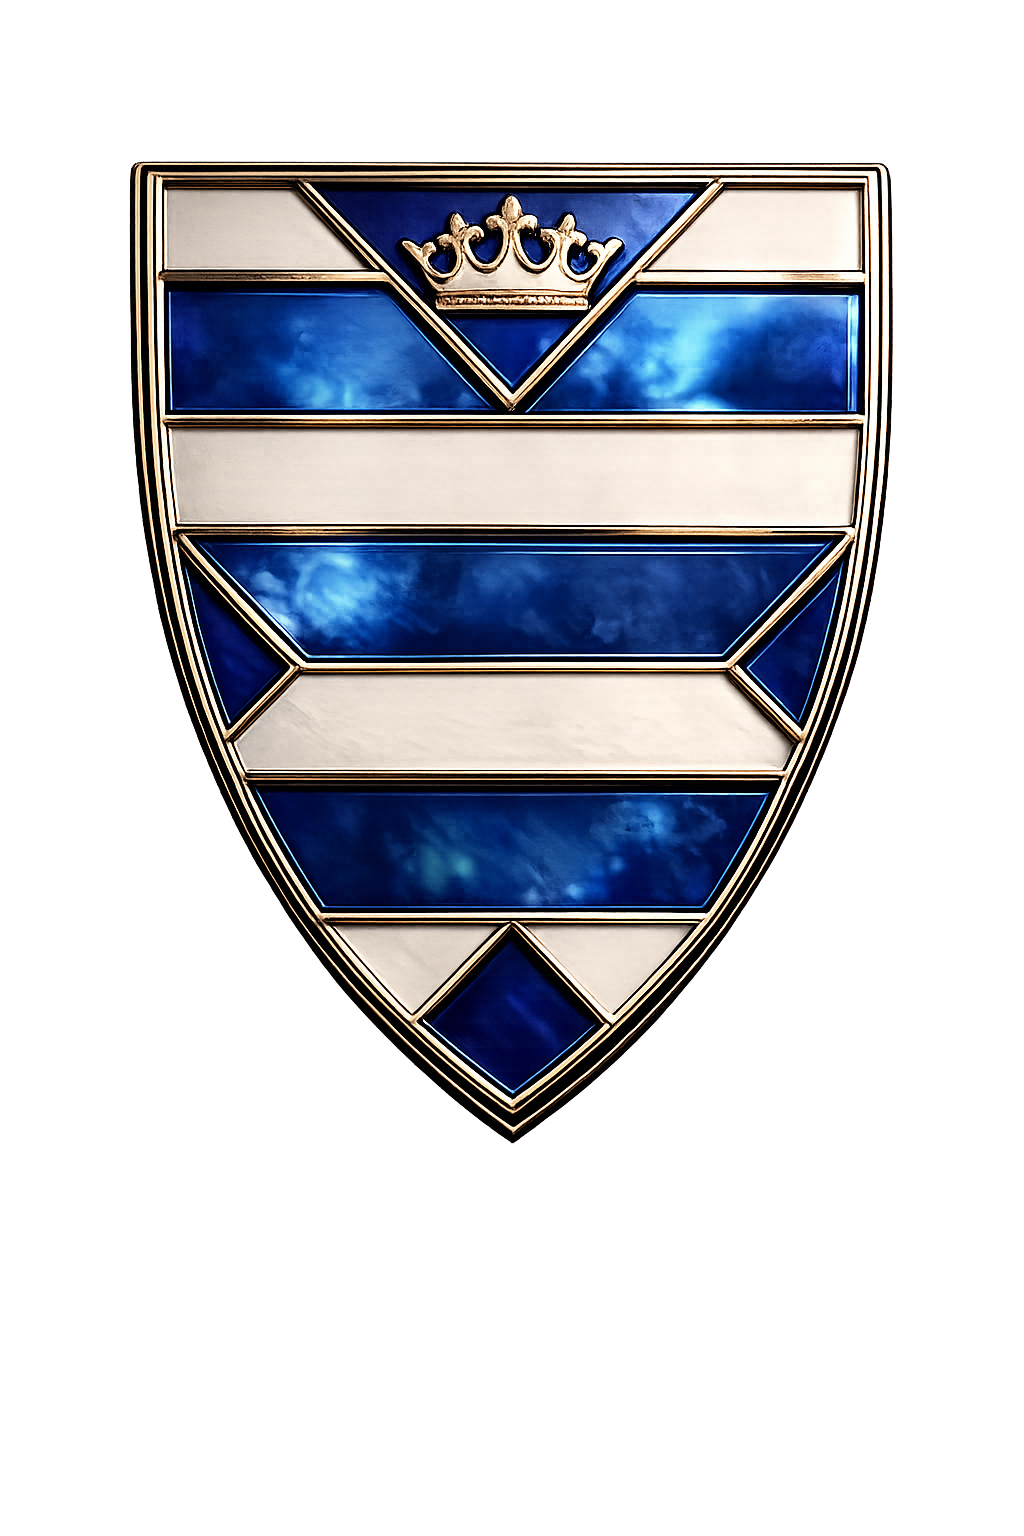
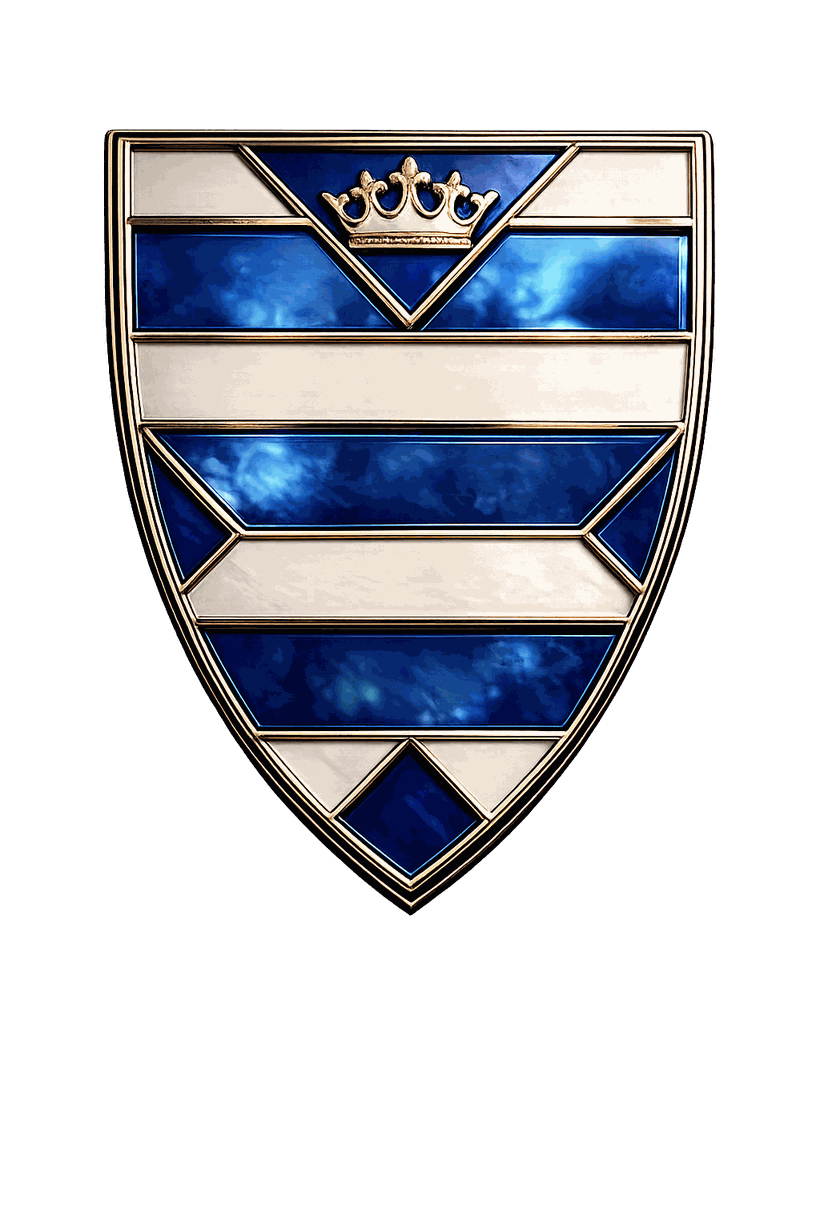
Top-5 upgrades: Pages deploy, live leaderboard, real forms, hype bar, image perf
- GitHub Pages workflow (.github/workflows/deploy-pages.yml) + .nojekyll
- Live house-points leaderboard from a Google Sheet CSV (js/config.js)
- Contact/sign-up form posts to Formspree (AJAX + toast), demo fallback
- Sitewide 'next event' hype bar (reads events.json, dismissible)
- Crest optimised 1.6MB -> 108KB; images lazy-load + async-decode
- Single js/config.js for the two go-live links; README updated

https://claude.ai/code/session_01EkLMgZEbYz1giLP2JaL872

diff --git a/js/main.js b/js/main.js
@@ -4,6 +4,20 @@
   var reduced = window.matchMedia("(prefers-reduced-motion: reduce)").matches;
   var canHover = window.matchMedia("(hover: hover)").matches;
 
+  /* ============================================================
+     EDITABLE CONFIG — paste your links here to "go live".
+     ------------------------------------------------------------
+     scoresCsvUrl : Google Sheet -> File -> Share -> Publish to web
+                    -> CSV. Sheet columns: House , Points.
+                    Leave "" to show the placeholder standings.
+     formEndpoint : Your Formspree endpoint, e.g.
+                    https://formspree.io/f/abcd1234
+                    Leave "" for demo mode (no real send).
+     ============================================================ */
+  var CFG = window.STAMFORD_CONFIG || {};
+  CFG.scoresCsvUrl = CFG.scoresCsvUrl || "";
+  CFG.formEndpoint = CFG.formEndpoint || "";
+
   /* ---- Preloader (injected before first paint) ---- */
   (function preloader() {
     var pl = document.createElement("div");
@@ -309,6 +323,87 @@
     if (e.target.closest(".btn--primary, .theme-toggle, [data-sparkle]")) window.stamfordSparkle(e.clientX, e.clientY, 18);
     var flag = e.target.closest(".event-card.flagship");
     if (flag) { var r = flag.getBoundingClientRect(); window.stamfordSparkle(e.clientX || r.left + r.width / 2, e.clientY || r.top + 30, 22); }
+  });
+
+  /* ---- Performance: lazy-load + async-decode images ---- */
+  document.querySelectorAll("img").forEach(function (img) {
+    img.decoding = "async";
+    if (!img.closest(".site-header, .hero, .page-hero")) img.loading = "lazy";
+  });
+
+  /* ---- "Next event" hype bar (sitewide) ---- */
+  (function hypeBar() {
+    if (sessionStorage.getItem("stamford-hype-x")) return;
+    fetch("data/events.json").then(function (r) { return r.json(); }).then(function (data) {
+      var now = new Date(new Date().toDateString());
+      var up = (data.events || []).filter(function (e) { return e.date && new Date(e.date) >= now; })
+        .sort(function (a, b) { return new Date(a.date) - new Date(b.date); });
+      if (!up.length) return;
+      var ev = up[0];
+      var days = Math.ceil((new Date(ev.date) - now) / 864e5);
+      var when = days <= 0 ? "today" : days === 1 ? "tomorrow" : "in " + days + " days";
+      var bar = document.createElement("div");
+      bar.className = "hype";
+      bar.innerHTML = '<span class="bolt">⚡</span><span><b>Next up:</b> ' + ev.title +
+        ' — <b>' + when + '</b></span><a href="events.html">See the season →</a>' +
+        '<button class="hype-close" aria-label="Dismiss">×</button>';
+      document.body.insertBefore(bar, document.body.firstChild);
+      bar.querySelector(".hype-close").addEventListener("click", function () {
+        sessionStorage.setItem("stamford-hype-x", "1"); bar.remove();
+      });
+    }).catch(function () {});
+  })();
+
+  /* ---- Live house-points leaderboard (Google Sheet CSV) ---- */
+  (function leaderboard() {
+    var board = document.getElementById("scoreboard");
+    if (!board || !CFG.scoresCsvUrl) return;
+    var colors = {
+      stamford: { dot: "#2a4bff", bar: "linear-gradient(90deg,#2a4bff,#6fd6ff)" },
+      bradbury: { dot: "#d12b2b", bar: "#d12b2b" },
+      massey: { dot: "#1f9d4d", bar: "#1f9d4d" },
+      tatton: { dot: "#f5c400", bar: "#f5c400" }
+    };
+    fetch(CFG.scoresCsvUrl).then(function (r) { return r.text(); }).then(function (csv) {
+      var rows = csv.trim().split(/\r?\n/).map(function (l) { return l.split(","); });
+      // drop header if it isn't numeric
+      if (rows.length && isNaN(parseFloat(rows[0][1]))) rows.shift();
+      var data = rows.map(function (c) { return { name: (c[0] || "").trim(), pts: parseFloat(c[1]) || 0 }; })
+        .filter(function (d) { return d.name; }).sort(function (a, b) { return b.pts - a.pts; });
+      if (!data.length) return;
+      var max = Math.max.apply(null, data.map(function (d) { return d.pts; })) || 1;
+      board.innerHTML = data.map(function (d, i) {
+        var c = colors[d.name.toLowerCase()] || { dot: "#2f8fd0", bar: "#2f8fd0" };
+        var rank = ["1st", "2nd", "3rd", "4th"][i] || (i + 1) + "th";
+        return '<div class="score-row"><div class="house"><span class="dot" style="background:' + c.dot + '"></span>' +
+          d.name + '</div><div class="score-bar"><i data-w="' + Math.round(d.pts / max * 100) +
+          '" style="background:' + c.bar + '"></i></div><div class="score-val">' + d.pts.toLocaleString() + '</div></div>';
+      }).join("");
+      var cap = board.parentNode.querySelector(".muted");
+      if (cap) cap.textContent = "Live house points · updates from the house spreadsheet.";
+      requestAnimationFrame(function () {
+        board.querySelectorAll(".score-bar > i").forEach(function (el) { el.style.width = el.getAttribute("data-w") + "%"; });
+      });
+    }).catch(function () {});
+  })();
+
+  /* ---- Real form submission (Formspree) ---- */
+  document.querySelectorAll("form[data-form]").forEach(function (f) {
+    f.addEventListener("submit", function (e) {
+      e.preventDefault();
+      if (!CFG.formEndpoint) {
+        if (window.stamfordToast) window.stamfordToast("Thanks! (Demo mode — add a Formspree link to send for real.)", "✉");
+        f.reset(); return;
+      }
+      var btn = f.querySelector('[type="submit"]'); if (btn) btn.disabled = true;
+      fetch(CFG.formEndpoint, { method: "POST", body: new FormData(f), headers: { "Accept": "application/json" } })
+        .then(function (r) {
+          if (r.ok) { if (window.stamfordToast) window.stamfordToast("Thanks — your message is on its way!", "✉"); f.reset(); }
+          else if (window.stamfordToast) window.stamfordToast("Hmm, that didn't send. Try emailing us instead.", "⚠");
+        })
+        .catch(function () { if (window.stamfordToast) window.stamfordToast("Network error — please try again.", "⚠"); })
+        .finally(function () { if (btn) btn.disabled = false; });
+    });
   });
 
   /* ---- Page transition ---- */

diff --git a/css/style.css b/css/style.css
@@ -543,6 +543,19 @@ img { max-width: 100%; display: block; }
 /* Sparkles */
 .spark { position: fixed; z-index: 9995; pointer-events: none; line-height: 1; will-change: transform, opacity; }
 
+/* Hype bar */
+.hype { position: relative; display: flex; gap: 12px; align-items: center; justify-content: center; flex-wrap: wrap;
+  padding: 9px 46px 9px 18px; background: linear-gradient(90deg, var(--royal), var(--steel)); color: #fff;
+  font-family: var(--font-display); font-weight: 600; font-size: 0.88rem; letter-spacing: .01em; }
+.hype b { font-weight: 700; }
+.hype .bolt { animation: bolt 1.8s ease-in-out infinite; }
+@keyframes bolt { 0%,100% { opacity: 1; transform: scale(1); } 50% { opacity: .55; transform: scale(1.18); } }
+.hype a { color: #fff; text-decoration: underline; text-underline-offset: 3px; font-weight: 700; }
+.hype a:hover { color: #eaf4ff; }
+.hype-close { position: absolute; right: 10px; top: 50%; transform: translateY(-50%); width: 26px; height: 26px;
+  border: 0; border-radius: 50%; background: rgba(255,255,255,.2); color: #fff; font-size: 1.1rem; line-height: 1; cursor: pointer; }
+.hype-close:hover { background: rgba(255,255,255,.35); }
+
 /* Reduced motion */
 @media (prefers-reduced-motion: reduce) {
   *, *::before, *::after { animation-duration: .001ms !important; animation-iteration-count: 1 !important; transition-duration: .001ms !important; }

diff --git a/get-involved.html b/get-involved.html
@@ -63,7 +63,7 @@
         <p class="muted" style="font-size:.8rem;margin-top:8px">Placeholder address — swap for the real house inbox.</p>
       </div>
       <div class="card glass reveal d1">
-        <form class="form2" novalidate onsubmit="window.stamfordToast &amp;&amp; window.stamfordToast('Thanks — message ready to send! Connect this form to go live.','✉'); this.reset(); return false;">
+        <form class="form2" data-form="signup" novalidate>
           <div class="field">
             <input id="name" name="name" type="text" placeholder=" " required />
             <label for="name">Your name</label>
@@ -87,7 +87,7 @@
             <label for="message">Your message</label>
           </div>
           <div><button class="btn btn--primary" type="submit">Send to the team →</button></div>
-          <p class="muted" style="font-size:.8rem">Demo form — connect it to the house email or a service like Formspree to go live.</p>
+          <p class="muted" style="font-size:.8rem">We'll only use your message to get back to you about the house.</p>
         </form>
       </div>
     </div>
@@ -126,6 +126,6 @@
     </div>
   </footer>
 
-  <script src="js/main.js"></script>
+  <script src="js/config.js"></script>  <script src="js/main.js"></script>
 </body>
 </html>

diff --git a/index.html b/index.html
@@ -91,7 +91,7 @@
           <div class="mt"><a class="btn btn--ghost" href="events.html">Explore every event</a></div>
         </div>
         <div class="card glass reveal d1">
-          <div class="scoreboard">
+          <div class="scoreboard" id="scoreboard">
             <div class="score-row"><div class="house"><span class="dot" style="background:#2a4bff"></span>Stamford</div><div class="score-bar"><i data-w="100" style="background:linear-gradient(90deg,#2a4bff,#6fd6ff)"></i></div><div class="score-val">1st</div></div>
             <div class="score-row"><div class="house"><span class="dot" style="background:#d12b2b"></span>Bradbury</div><div class="score-bar"><i data-w="74" style="background:#d12b2b"></i></div><div class="score-val">2nd</div></div>
             <div class="score-row"><div class="house"><span class="dot" style="background:#1f9d4d"></span>Massey</div><div class="score-bar"><i data-w="68" style="background:#1f9d4d"></i></div><div class="score-val">3rd</div></div>
@@ -216,6 +216,6 @@
     </div>
   </footer>
 
-  <script src="js/main.js"></script>
+  <script src="js/config.js"></script>  <script src="js/main.js"></script>
 </body>
 </html>

diff --git a/js/config.js b/js/config.js
@@ -1,0 +1,21 @@
+/* ============================================================
+   STAMFORD HOUSE — SITE CONFIG
+   Edit the two values below to switch features "live".
+   (Nothing else in the codebase needs touching.)
+   ============================================================ */
+window.STAMFORD_CONFIG = {
+
+  // 1) LIVE HOUSE POINTS  ------------------------------------
+  // In a Google Sheet with two columns  House | Points
+  // (rows: Stamford, Bradbury, Massey, Tatton), go to:
+  //   File -> Share -> Publish to web -> (sheet) -> CSV -> Publish
+  // Paste that .csv link here. Leave "" to show placeholder standings.
+  scoresCsvUrl: "",
+
+  // 2) CONTACT / SIGN-UP FORM  -------------------------------
+  // Create a free form at https://formspree.io and paste its endpoint
+  // here, e.g. "https://formspree.io/f/abcd1234".
+  // Leave "" for demo mode (form shows a thank-you but doesn't send).
+  formEndpoint: ""
+
+};

diff --git a/events.html b/events.html
@@ -114,6 +114,6 @@
   </footer>
 
   <script src="js/events.js"></script>
-  <script src="js/main.js"></script>
+  <script src="js/config.js"></script>  <script src="js/main.js"></script>
 </body>
 </html>

diff --git a/about.html b/about.html
@@ -112,6 +112,6 @@
     </div>
   </footer>
 
-  <script src="js/main.js"></script>
+  <script src="js/config.js"></script>  <script src="js/main.js"></script>
 </body>
 </html>

diff --git a/leadership.html b/leadership.html
@@ -120,6 +120,6 @@
     </div>
   </footer>
 
-  <script src="js/main.js"></script>
+  <script src="js/config.js"></script>  <script src="js/main.js"></script>
 </body>
 </html>

diff --git a/404.html b/404.html
@@ -43,6 +43,6 @@
     </div>
   </section>
 
-  <script src="js/main.js"></script>
+  <script src="js/config.js"></script>  <script src="js/main.js"></script>
 </body>
 </html>

diff --git a/gallery.html b/gallery.html
@@ -68,6 +68,6 @@
     </div>
   </footer>
 
-  <script src="js/main.js"></script>
+  <script src="js/config.js"></script>  <script src="js/main.js"></script>
 </body>
 </html>

diff --git a/README.md b/README.md
@@ -44,13 +44,29 @@ python3 -m http.server 8000
 - **Fonts:** Space Grotesk (display) + Inter (body).
 - Honours `prefers-reduced-motion`; everything degrades gracefully.
 
-## Before go-live — TODO
+## Going live (2 things to flip on)
 
+All the plumbing is built — just paste two links into **`js/config.js`**:
+
+1. **Live house points** — make a Google Sheet with columns `House | Points`
+   (rows: Stamford, Bradbury, Massey, Tatton). File → Share → **Publish to web → CSV**,
+   then paste that link as `scoresCsvUrl`. The home scoreboard becomes live (sorted, animated).
+2. **Working contact/sign-up form** — create a free form at **formspree.io**, paste its
+   endpoint as `formEndpoint`. Submissions then email the house for real (with a success toast).
+
+### Publish the site (GitHub Pages)
+A deploy workflow is included at `.github/workflows/deploy-pages.yml`. To switch it on:
+**GitHub repo → Settings → Pages → Build and deployment → Source: GitHub Actions.**
+Every push to `main` then auto-deploys to a public URL.
+
+## Other features now built-in
+- **"Next event" hype bar** sitewide (auto-reads the calendar; dismissible).
+- **Image perf:** crest optimised 1.6 MB → ~108 KB; images lazy-load + async-decode.
+  (Full-res crest kept at `assets/crest-full.png`.)
+
+## Remaining TODO
 - [ ] Add real photos to `assets/photos/` (Daniel, Ayaan, gallery) — placeholders auto-swap.
-- [ ] Replace the SVG crest with official artwork if higher fidelity is wanted.
-- [ ] Wire the **Get Involved** form to the house email / a form service (e.g. Formspree).
-- [ ] Confirm leadership names, event dates and "Year group/Number" cells with the school
-      (a few cells in the source PDF looked shifted; flagged rather than guessed).
-- [ ] Wire the home **scoreboard** to live house points if a data source exists.
+- [ ] Confirm leadership names, event dates and "Year group/Number" cells with the school.
+- [ ] Replace the placeholder house email (`stamford.house@agsb.co.uk`).
 
 *Last updated June 2026.*
